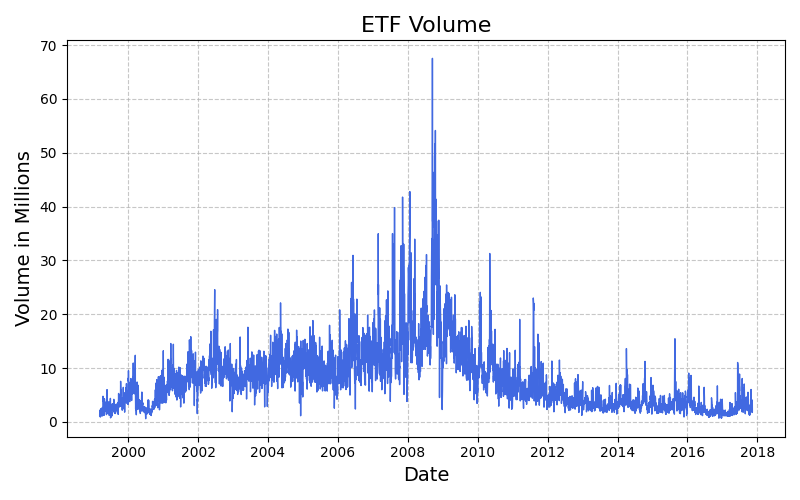
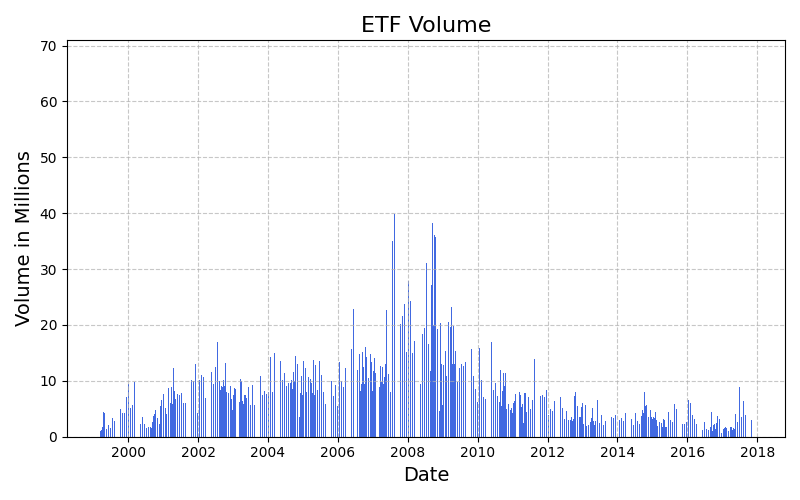
Vol Update

diff --git a/ETFs.py b/ETFs.py
@@ -1,5 +1,6 @@
 import os
 import pandas as pd
+import mplfinance as mpf
 import matplotlib.pyplot as plt
 
 def readETFs(name) -> pd.DataFrame:
@@ -79,7 +80,7 @@ def prePlot(df: pd.DataFrame, ticker):
     plt.savefig(f"./Plots/ETFs/{ticker}/Low.png")
 
     plt.figure(figsize=(8, 5))
-    plt.plot(df['Date'], df['Volume in Millions'], color='royalblue', linestyle='-', linewidth=1, label='Volume')
+    plt.bar(df['Date'], df['Volume in Millions'], color='royalblue', label='Volume')
     plt.title('ETF Volume', fontsize=16)
     plt.xlabel('Date', fontsize=14)
     plt.ylabel('Volume in Millions', fontsize=14)
